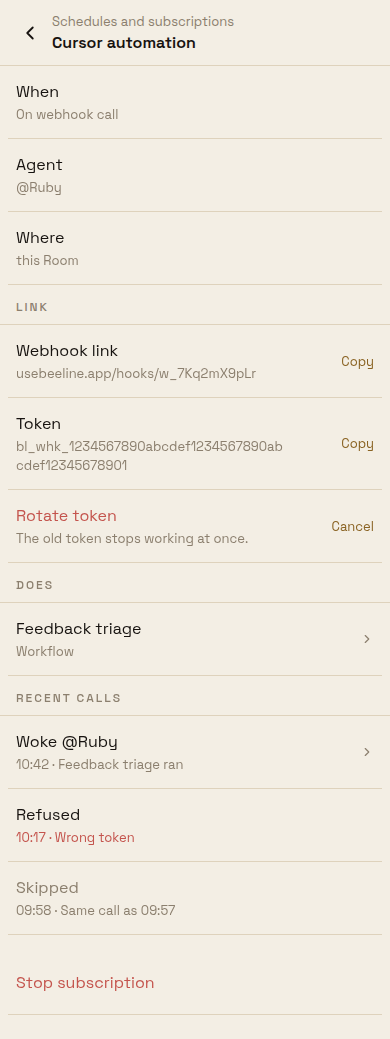
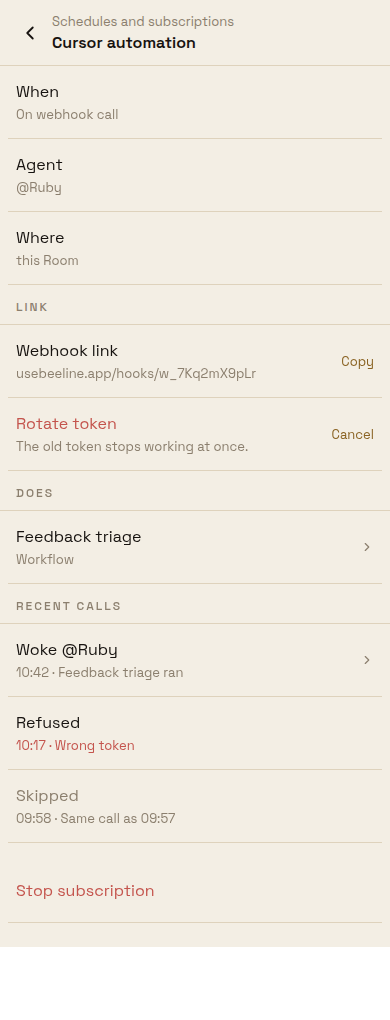
Match approved webhook rotation confirmation layout

diff --git a/apps/mobile/sources/app/(app)/beeline/settings/subscription.tsx b/apps/mobile/sources/app/(app)/beeline/settings/subscription.tsx
@@ -128,12 +128,12 @@ export default function Subscription() {
                   descriptionContent={<Text selectable style={styles.webhookValue}>{subscription.webhook.url}</Text>}
                   action={copied === 'link' ? 'Copied' : 'Copy'}
                   onPress={() => void copy('link', subscription.webhook!.url)} testID="webhook-link" />
-                <SettingsRow title="Token"
+                {!confirmRotate ? <SettingsRow title="Token"
                   description={token ?? `Ends in ${subscription.webhook.tokenSuffix} · made by @${creatorName}, ${new Intl.DateTimeFormat('en-US', { month: 'short', day: 'numeric' }).format(new Date(subscription.webhook.tokenCreatedAt * 1000))}`}
                   descriptionContent={token ? <Text selectable style={styles.webhookValue}>{token}</Text> : undefined}
                   action={token ? (copied === 'token' ? 'Copied' : 'Copy') : 'Show'}
                   disabled={webhookBusy} onPress={() => token ? void copy('token', token) : void showToken()}
-                  testID="webhook-token" />
+                  testID="webhook-token" /> : null}
                 {confirmRotate ? (
                   <SettingsRow title="Rotate token" description="The old token stops working at once."
                     tone="destructive" action="Cancel" disabled={webhookBusy}

diff --git a/apps/mobile/evidence/subscription-webhooks/README.md b/apps/mobile/evidence/subscription-webhooks/README.md
@@ -18,7 +18,7 @@ actions, two-tap confirmation, and danger/quiet tones. Link, token and calls are
 Bone applies the same existing theme tokens.
 
 The capture script also checks own-title rendering, Show/Copy, link copying, rotate,
-Cancel, service calls, hidden Link for non-admins, recoverable errors, and no horizontal
+Cancel restoring the revealed Token row, Token hidden during confirmation, service calls, hidden Link for non-admins, recoverable errors, and no horizontal
 overflow. It captures the screen before exercising extra Copy feedback states.
 
 From the repository root:
